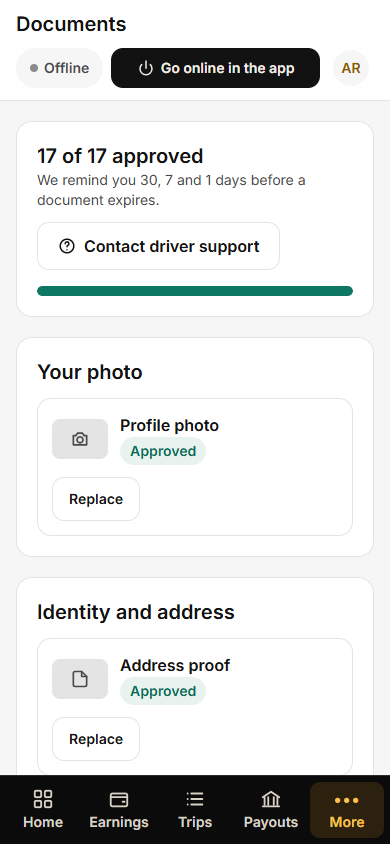
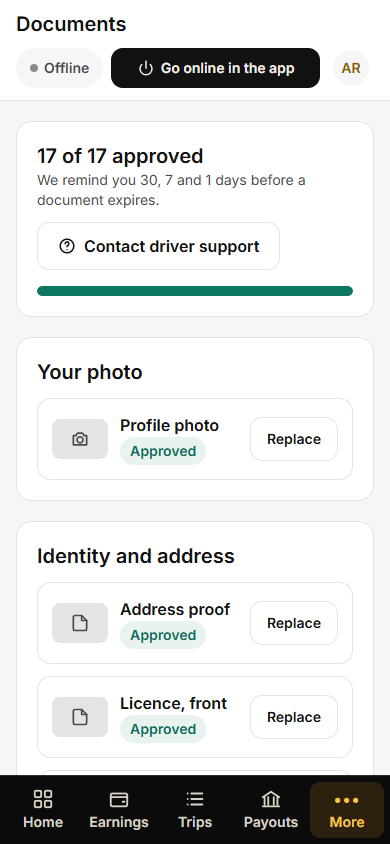
Document tiles: wrap the button only below 7em (the 12em basis wrapped it at phone width)

diff --git a/apps/web/src/styles/area.css b/apps/web/src/styles/area.css
@@ -732,7 +732,7 @@ button.er-bar { cursor: pointer; }
 /* 17 Nov (any size): a document tile wraps its button under the text when the text is large,
    rather than letting the button sit on the status pill. */
 .su-tile { flex-wrap: wrap; }
-.su-tile > .agrow { flex: 1 1 12em; min-width: 0; }
+.su-tile > .agrow { flex: 1 1 0; min-width: min(7em, 100%); } /* 18 Nov: wraps the button only below 7em */
 .su-tile__meta { flex-wrap: wrap; }
 .su-pill { height: auto; min-height: 24px; }
 .ar .su-tbtn { height: auto; min-height: 44px; }
